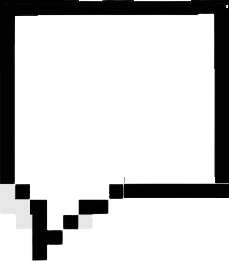
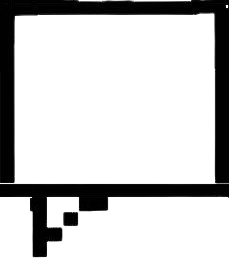
Forms

Changed region(s): [[0.0, 0.0, 1.0, 1.0]]

diff --git a/css/main.css b/css/main.css
@@ -206,6 +206,7 @@ form {
     background-color: transparent;
     padding-left: 55px;
     padding-right: 45px;
+    padding-top: 45px;
 }
 
 #login h1{
@@ -222,9 +223,14 @@ form {
     padding-right: 20px;
 }
 
+#login .modal-body, #registro .modal-body{
+    padding-bottom: 0px;
+}
+
 #login .modal-footer,#registro .modal-footer{
     border: none;
     padding-right: 45px;
+    padding-bottom: 55px;
 }
 
 #login .modal-header .modal-title,#registro .modal-header .modal-title{
@@ -234,6 +240,10 @@ form {
 
 #registro .registro-form h1,#registro .registro-form label{
     color: white;
+}
+
+#login .login-form h1, #registro .registro-form h1{
+    margin: auto;
 }
 
 .landing-page #login .logo{
@@ -1135,14 +1145,22 @@ button.audio-close{
     opacity: 0;
   }
 
-  #login .modal-dialog,#registro .modal-dialog{
-    background-image: url(../img/form.png);
-    background-size: contain;
-    background-position-y: 90px;
-    background-repeat: no-repeat;
-  }
-
-  #login .modal-dialog .modal-content,#registro .modal-dialog .modal-content{
+  #login .modal-content,#registro .modal-content{
     background-color: transparent;
     border: none;
+    background-image: url(../img/form.png);
+    background-size: cover;
+    background-position-y: 0;
+    box-shadow: 0px 0px 50px 0px wheat;
+    background-repeat: no-repeat;
+    height: 579px;
   }
+
+  #mainPage #login .logo img,#mainPage #registro .logo img{
+    width: 293px;
+  }
+
+  /* #login .modal-dialog .modal-content,#registro .modal-dialog .modal-content{
+    background-color: transparent;
+    border: none;
+  } */

diff --git a/signup.php b/signup.php
@@ -41,6 +41,9 @@
                     <div class="input-group mb-3">
                         <h1>Crear jugador</h1>
                     </div>
+                    <div class="input-group mb-3 logo">
+                        <img src="img/logo.jpg">
+                    </div>
                     <div class="input-group mb-3">    
                         <label for="nombre" class="form-label">Nombre</label>
                         <div class="col-sm-12">

diff --git a/login.php b/login.php
@@ -22,7 +22,7 @@
             
             <div class="row align-items-end">
                 <div class="col"></div>
-                <div class="col">
+                <div class="col login-form">
                 <?php if(isset($_SESSION['success']) == 1){ ?>
                         <div class="alert alert-success alert-dismissible" role="alert">
                             <?php echo $_SESSION['success']; ?>
